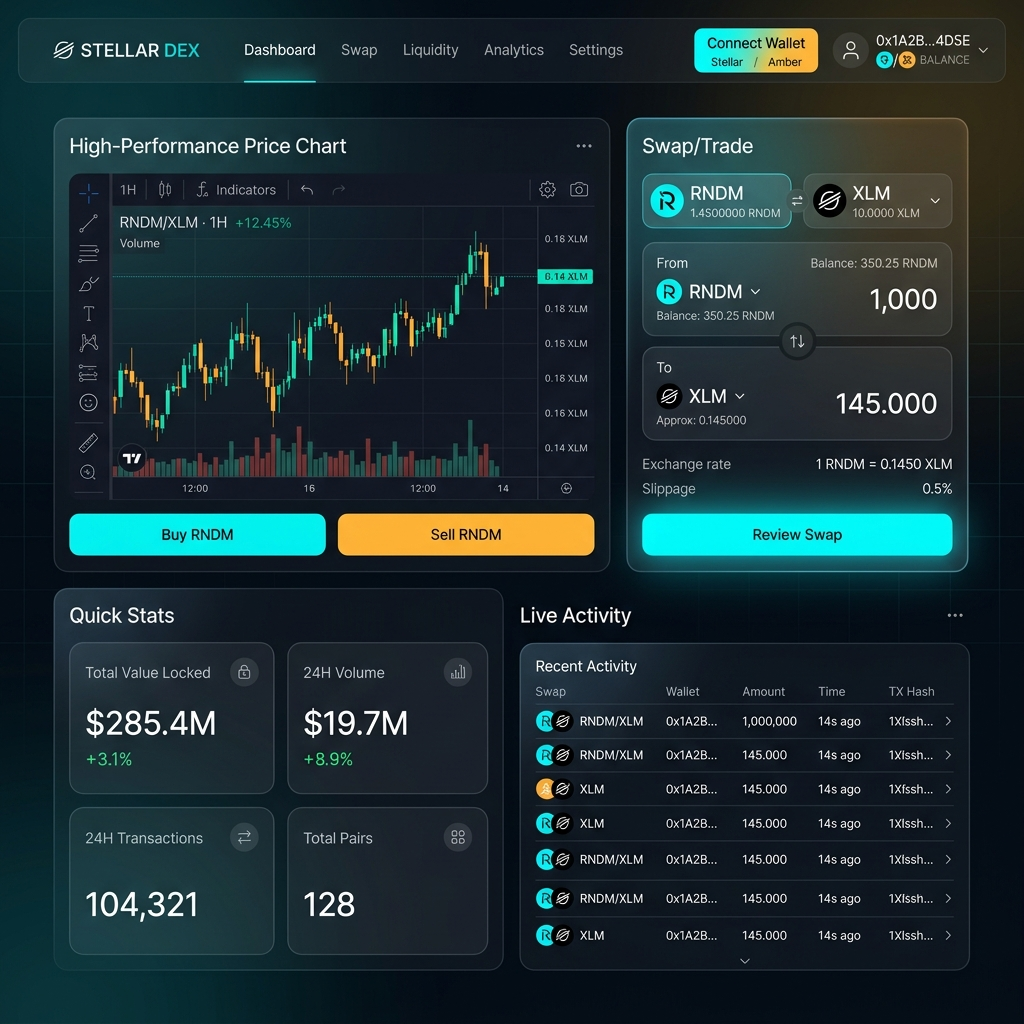
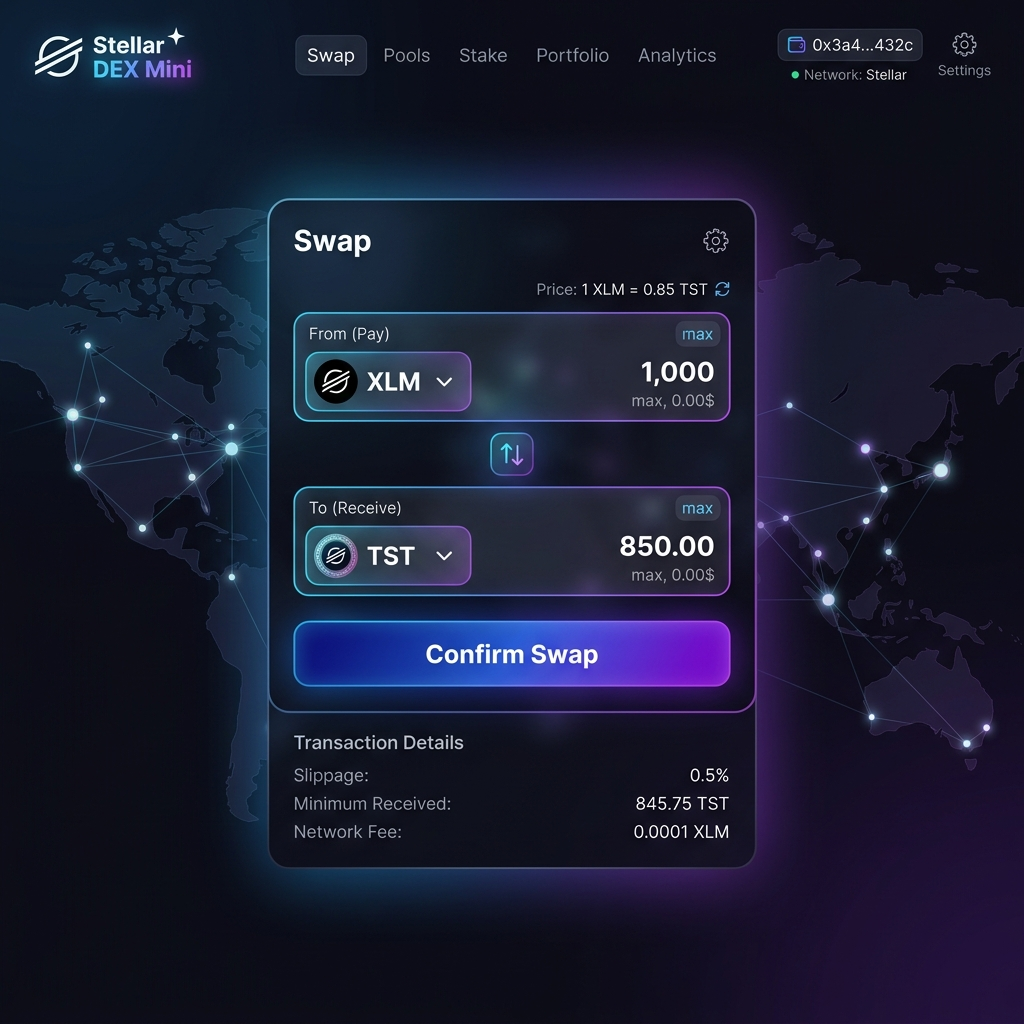
Fix image paths in README and add screenshot assets

diff --git a/README.md b/README.md
@@ -35,10 +35,10 @@ A high-performance, mobile-responsive Decentralized Exchange (DEX) built on **St
 ## 📸 Screenshots
 
 ### Desktop Dashboard
-![Dashboard](file:///Users/shivay/.gemini/antigravity/brain/8d27d433-5390-4db8-96a5-93a5b452af65/stellar_dex_swap_ui_1777285799351.png)
+![Dashboard](public/screenshots/dashboard.png)
 
 ### Analytics View
-![Analytics](file:///Users/shivay/.gemini/antigravity/brain/8d27d433-5390-4db8-96a5-93a5b452af65/stellar_dex_analytics_ui_1777285824764.png)
+![Analytics](public/screenshots/analytics.png)
 
 ## 🧪 Testing
 
